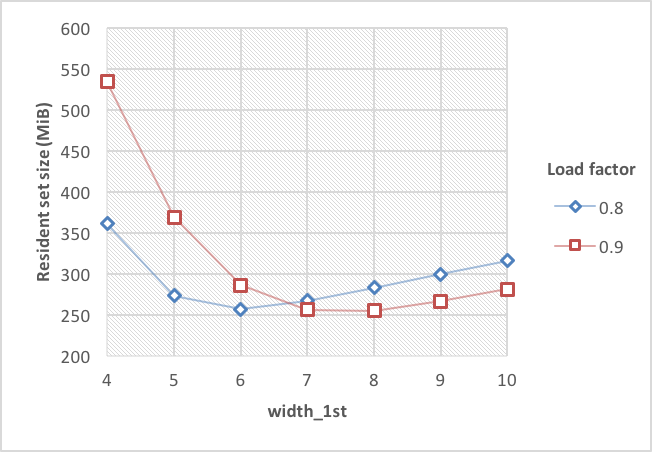
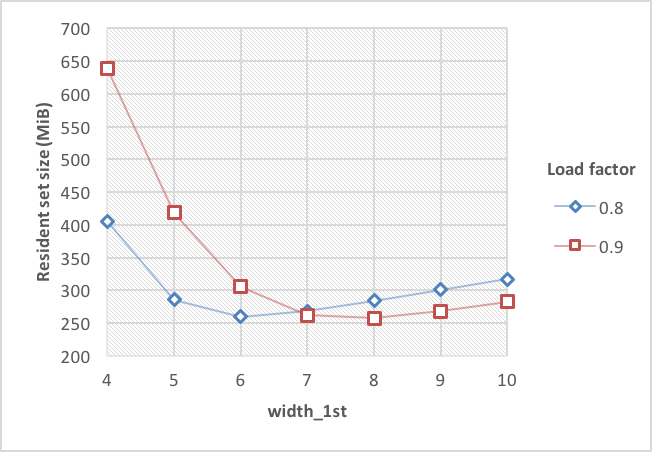
Update

diff --git a/README.md b/README.md
@@ -8,14 +8,14 @@ This library provides an experimental trie implementation using Bonsai structure
 The former and latter are implemented by the __BonsaiDCW__ and __BonsaiPR__ classes, respectively.
 BonsaiPR provides a very simple m-Bonsai (recursive) implementation without the secondary Bonsai hash table to store displacement values because it is difficult to estimate the table size.
 
-The library consults [mBonsai](https://github.com/Poyias/mBonsai) and uses [sdsl-lite](https://github.com/simongog/sdsl-lite).
+I consulted the [mBonsai](https://github.com/Poyias/mBonsai) implementation.
 
 ## Performance test
 
 ### Setting
 
-The experiments were carried out on Mac OS X 10.12 over Quad-core Intel Core i7 4.0 GHz, with 16 GB RAM (L2 cache: 256 KB; L3 cache: 8 MB).
-The codes were compiled using Apple LLVM version 8 (clang-8) with optimization -O3.
+The experiments were carried out on Intel Xeon E5540 @2.53 GHz, with 32 GiB of RAM (L2 cache: 1 MiB; L3 cache: 8 MiB), running Ubuntu Server 16.04 LTS.
+The codes were compiled using g++ (version 5.4.0) with optimization -O9.
 The runtimes were measured using __std::chrono::duration_cast__.
 To measure the required memory sizes, the __/usr/bin/time__ command was used.
 The tries were constructed from all page titles from English Wikipedia of February 2015 (# of nodes: 110,962,030, # of keys: 11,519,354, raw size: 227.2 MiB).
@@ -39,9 +39,9 @@ BonsaiPR applied 6 and 8 to *width_1st* in 0.8 and 0.9 load factors, respectivel
 The following table lists the timings needed in inserting keys (__Insert__), searching the keys (__Search__), and the maximum resident set size occupied by the insertion process  (__RSS__).
 The order of keys was random.
 
-| Data Structure   | RSS (MiB) | Insert (ns / key) | Search (ns / key) |
-|------------------|----------:|------------------:|------------------:|
-| BonsaiDCW (0.8)  |     266.7 |              2.79 |              4.08 |
-| BonsaiDCW (0.9)  |     237.3 |              3.29 |              8.38 |
-| BonsaiPR (0.8)   |     256.8 |              1.99 |              2.05 |
-| BonsaiPR (0.9)   |     255.4 |              2.06 |              2.12 |
+| Data Structure | RSS (MiB) | Insert (ns / key) | Search (ns / key) |
+|-----------------|----------:|------------------:|------------------:|
+| BonsaiDCW (0.8) | 267.6 | 3.68 | 6.24 |
+| BonsaiDCW (0.9) | 238.3 | 4.54 | 14.88 |
+| BonsaiPR (0.8) | 259.4 | 2.33 | 2.04 |
+| BonsaiPR (0.9) | 257.2 | 2.46 | 2.18 |
